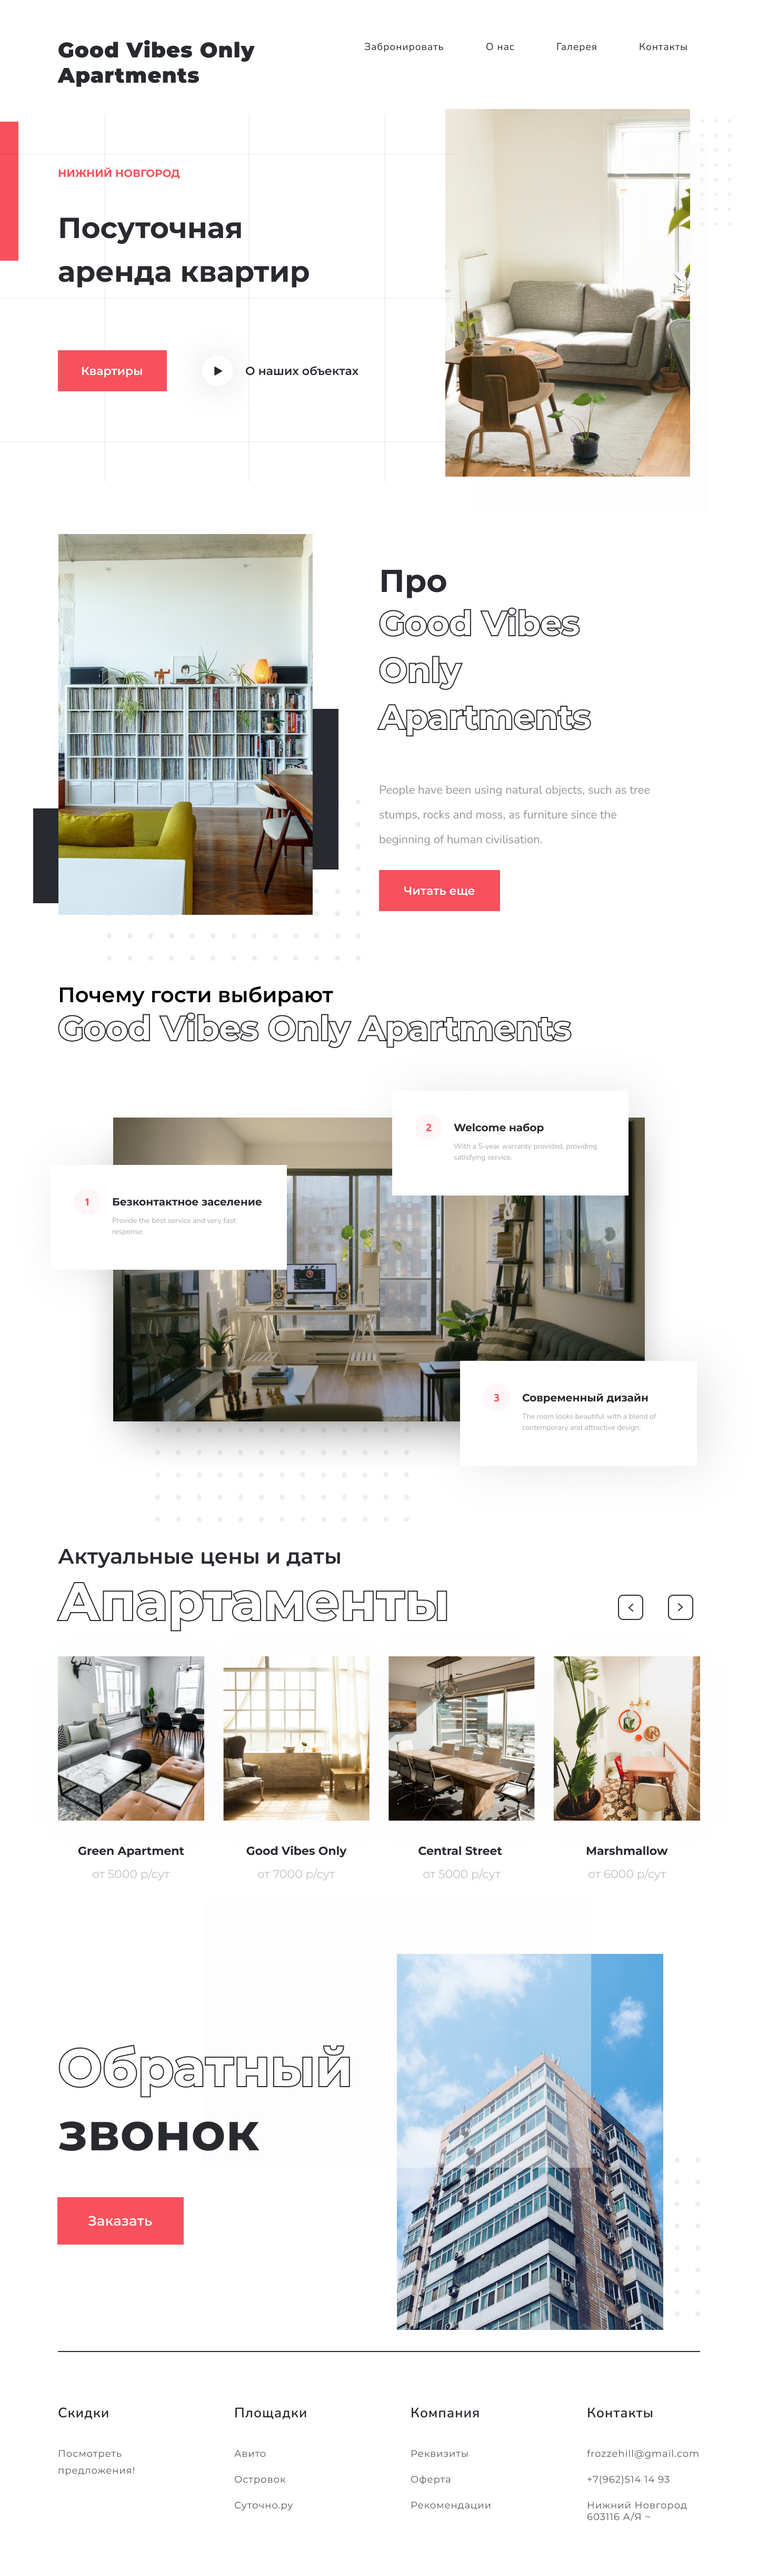
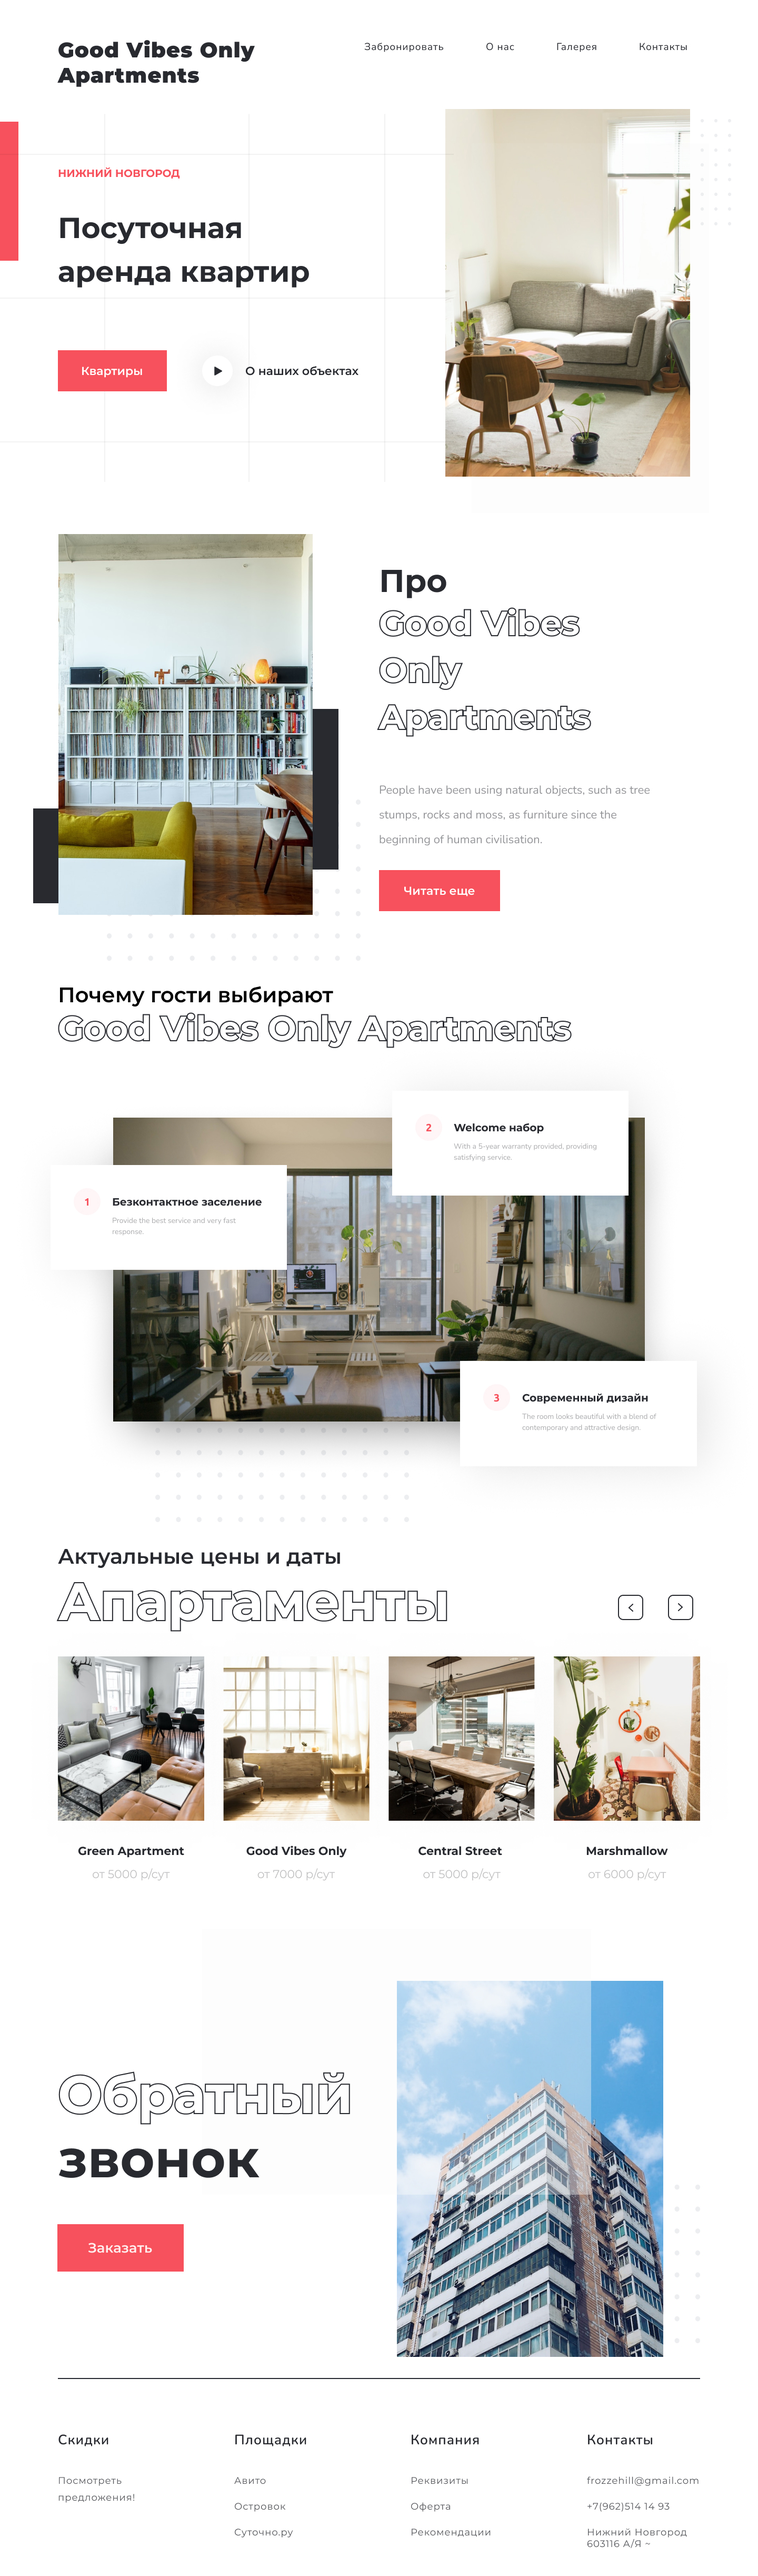
feat callback

diff --git a/index.html b/index.html
@@ -231,15 +231,17 @@
         </div>
       </section>
 
-      <!-- <section class="callback">
-        <h2 class="callback__title">Обратный
-          <span class="callback__snap-accent">звонок</span>
-        </h2>
-        <button class="callback__btn-book">Заказать</button>
-        <div class="callback__overlay"></div>
+      <section class="callback">
+        <div class="callback__wrapper">
+          <h2 class="callback__title">Обратный
+            <span class="callback__snap-accent">звонок</span>
+          </h2>
+          <button class="callback__btn-book">Заказать</button>
+        </div>
         <img src="./images/callback__image.jpg" alt="" class="callback__image">
+        <div class="callback__overlay"></div>
         <div class="callback__background"></div>
-      </section> -->
+      </section>
 
       <!-- <section class="dividing-line">
         <div class="dividing-line__line"></div>

diff --git a/blocks/callback/__overlay/callback__overlay.css b/blocks/callback/__overlay/callback__overlay.css
@@ -3,10 +3,46 @@
   width: 739px;
   height: 504px;
 
-  right: 206px;
-  top: -63px;
+  right: 305px;
+  top: 0;
 
   background: rgba(251, 251, 251, 0.4);
 
   z-index: 4;
+}
+
+@media screen and (min-width: 1440px) {
+  .callback__overlay {
+    right: 317px;
+  }
+}
+
+/* 1280 - default*/
+
+@media screen and (max-width: 1024px) {
+  .callback__overlay {
+    right: 285px;
+  }
+}
+
+@media screen and (max-width: 834px) {
+  .callback__overlay {
+    right: 218px;
+  }
+}
+
+@media screen and (max-width: 768px) {}
+
+@media screen and (max-width: 430px) {
+  .callback__overlay {
+    right: 69px;
+  }
+}
+
+@media screen and (max-width: 320px) {
+  .callback__overlay {
+    width: 324px;
+    height: 280px;
+    right: 141px;
+  }
 }

diff --git a/blocks/callback/__background/callback__background.css b/blocks/callback/__background/callback__background.css
@@ -4,9 +4,40 @@
   width: 482px;
   height: 300px;
 
-  top: 423px;
-  right: 0;
+  top: 484px;
+  right: 98px;
+
   background-image: url(../../../images/callback__background.svg);
 
   z-index: 2;
 }
+
+@media screen and (min-width: 1440px) {
+  .callback__background {
+    right: 110px;
+  }
+}
+
+/* 1280 - default*/
+
+@media screen and (max-width: 1024px) {
+  .callback__background {
+    right: 78px;
+  }
+}
+
+@media screen and (max-width: 834px) {
+  .callback__background {
+    right: 11px;
+  }
+}
+
+@media screen and (max-width: 768px) {}
+
+@media screen and (max-width: 430px) {
+  .callback__background {
+    display: none;
+  }
+}
+
+@media screen and (max-width: 320px) {}

diff --git a/blocks/callback/__image/callback__image.css b/blocks/callback/__image/callback__image.css
@@ -4,8 +4,44 @@
   max-width: 506px;
   object-fit: fill;
 
-  top: 35px;
-  right: 69px;
+  top: 98px;
+  right: 168px;
 
   z-index: 3;
+}
+
+@media screen and (min-width: 1440px) {
+  .callback__image {
+    right: 180px;
+  }
+}
+
+/* 1280 - default*/
+
+@media screen and (max-width: 1024px) {
+  .callback__image {
+    right: 148px;
+  }
+}
+
+@media screen and (max-width: 834px) {
+  .callback__image {
+    right: 81px;
+  }
+}
+
+@media screen and (max-width: 768px) {}
+
+@media screen and (max-width: 430px) {
+  .callback__image {
+    right: 0;
+  }
+}
+
+@media screen and (max-width: 320px) {
+  .callback__image {
+    max-width: 320px;
+    height: 480px;
+    top: 0;
+  }
 }

diff --git a/blocks/callback/__wrapper/callback__wrapper.css b/blocks/callback/__wrapper/callback__wrapper.css
@@ -1,0 +1,40 @@
+.callback__wrapper {
+  width: 100%;
+  max-width: 1104px;
+
+  box-sizing: border-box;
+  margin: 0 auto;
+  padding: 252px 10px 0;
+
+}
+
+@media screen and (min-width: 1440px) {
+  .callback__wrapper {
+    max-width: 1240px;
+  }
+}
+
+/* 1280 - default*/
+
+@media screen and (max-width: 1110px) {
+  .callback__wrapper {
+    max-width: 888px;
+  }
+}
+
+@media screen and (max-width: 834px) {
+  .callback__wrapper {
+    max-width: 832px;
+  }
+}
+
+@media screen and (max-width: 768px) {}
+
+@media screen and (max-width: 430px) {}
+
+@media screen and (max-width: 320px) {
+  .callback__wrapper {
+    padding: 40px 10px 0;
+
+  }
+}

diff --git a/blocks/callback/callback.css b/blocks/callback/callback.css
@@ -1,10 +1,32 @@
 .callback {
   max-width: 100%;
-
+  min-height: 812px;
   position: relative;
 
-  margin: 0 auto;
-  padding: 193px 0 309px;
+  margin: 40px auto 0;
+  padding: 0;
 
-  /* background-color: rgba(17, 0, 255, 0.2); */
+  background-color: rgba(17, 0, 255, 0.2);
+}
+
+@media screen and (min-width: 1440px) {}
+
+/* 1280 - default*/
+
+@media screen and (max-width: 1024px) {}
+
+@media screen and (max-width: 834px) {}
+
+@media screen and (max-width: 768px) {}
+
+@media screen and (max-width: 430px) {
+  .callback {
+    margin: 30px auto 0;
+  }
+}
+
+@media screen and (max-width: 320px) {
+  .callback {
+    min-height: 480px;
+  }
 }

diff --git a/blocks/callback/__title/callback__title.css b/blocks/callback/__title/callback__title.css
@@ -3,9 +3,12 @@
 
   margin: 0;
   padding: 0;
+  /* padding: 252px 98px 0; */
 
   font-family: 'Montserrat', sans-serif;
   font-size: 100px;
+  line-height: 1.22;
+
   color: #FFFFFF;
   text-shadow:
     -0 -2px 0 rgba(40, 42, 48, 0.502),
@@ -35,3 +38,22 @@
 
   z-index: 10;
 }
+
+@media screen and (min-width: 1440px) {}
+
+/* 1280 - default*/
+
+@media screen and (max-width: 1024px) {}
+
+@media screen and (max-width: 834px) {}
+
+@media screen and (max-width: 768px) {}
+
+@media screen and (max-width: 660px) {
+  .callback__title {
+    font-size: 48px;
+    line-height: 1.5;
+  }
+}
+
+@media screen and (max-width: 320px) {}

diff --git a/blocks/callback/__btn-boo/callback__btn-book.css b/blocks/callback/__btn-boo/callback__btn-book.css
@@ -11,14 +11,32 @@
 
   font-family: 'Montserrat', sans-serif;
   font-weight: 600;
-  font-size: 22px;
+  font-size: 26px;
 
   color: #FFFFFF;
 
   text-align: center;
   margin-top: 67px;
-  padding: 32px 67px;
+  padding: 28px 57px;
 
   cursor: pointer;
   z-index: 10;
 }
+
+@media screen and (min-width: 1440px) {}
+
+/* 1280 - default*/
+
+@media screen and (max-width: 1024px) {}
+
+@media screen and (max-width: 834px) {}
+
+@media screen and (max-width: 768px) {}
+
+@media screen and (max-width: 430px) {
+  .callback__btn-book {
+    margin-top: 125px;
+  }
+}
+
+@media screen and (max-width: 320px) {}

diff --git a/pages/index.css b/pages/index.css
@@ -119,6 +119,7 @@
 /* ======================== CALLBACK ===================================== */
 
 @import url(../blocks/callback/callback.css);
+@import url(../blocks/callback/__wrapper/callback__wrapper.css);
 @import url(../blocks/callback/__title/callback__title.css);
 @import url(../blocks/callback/__snap-accent/callback__snap-accent.css);
 @import url(../blocks/callback/__btn-boo/callback__btn-book.css);

diff --git a/blocks/callback/__snap-accent/callback__snap-accent.css b/blocks/callback/__snap-accent/callback__snap-accent.css
@@ -12,3 +12,22 @@
 
   color: #282A30;
 }
+
+@media screen and (min-width: 1440px) {}
+
+/* 1280 - default*/
+
+@media screen and (max-width: 1024px) {}
+
+@media screen and (max-width: 834px) {}
+
+@media screen and (max-width: 768px) {}
+
+@media screen and (max-width: 660px) {
+  .callback__snap-accent {
+    font-size: 60px;
+    line-height: 1.5;
+  }
+}
+
+@media screen and (max-width: 320px) {}

diff --git a/blocks/product/product.css b/blocks/product/product.css
@@ -9,7 +9,7 @@
   position: relative;
 
   /* background-color: rgba(255, 230, 0, 0.2); */
-  /* background-color: rgba(255, 0, 195, 0.2); */
+  background-color: rgba(255, 0, 195, 0.2);
 }
 
 @media screen and (min-width: 1440px) {

diff --git a/blocks/page/page.css b/blocks/page/page.css
@@ -3,5 +3,5 @@
   max-width: 100%;
   margin: 0 auto;
   padding: 0;
-  /* background-color: rgba(0, 0, 255, 0.1); */
+  background-color: rgba(0, 0, 255, 0.1);
 }
